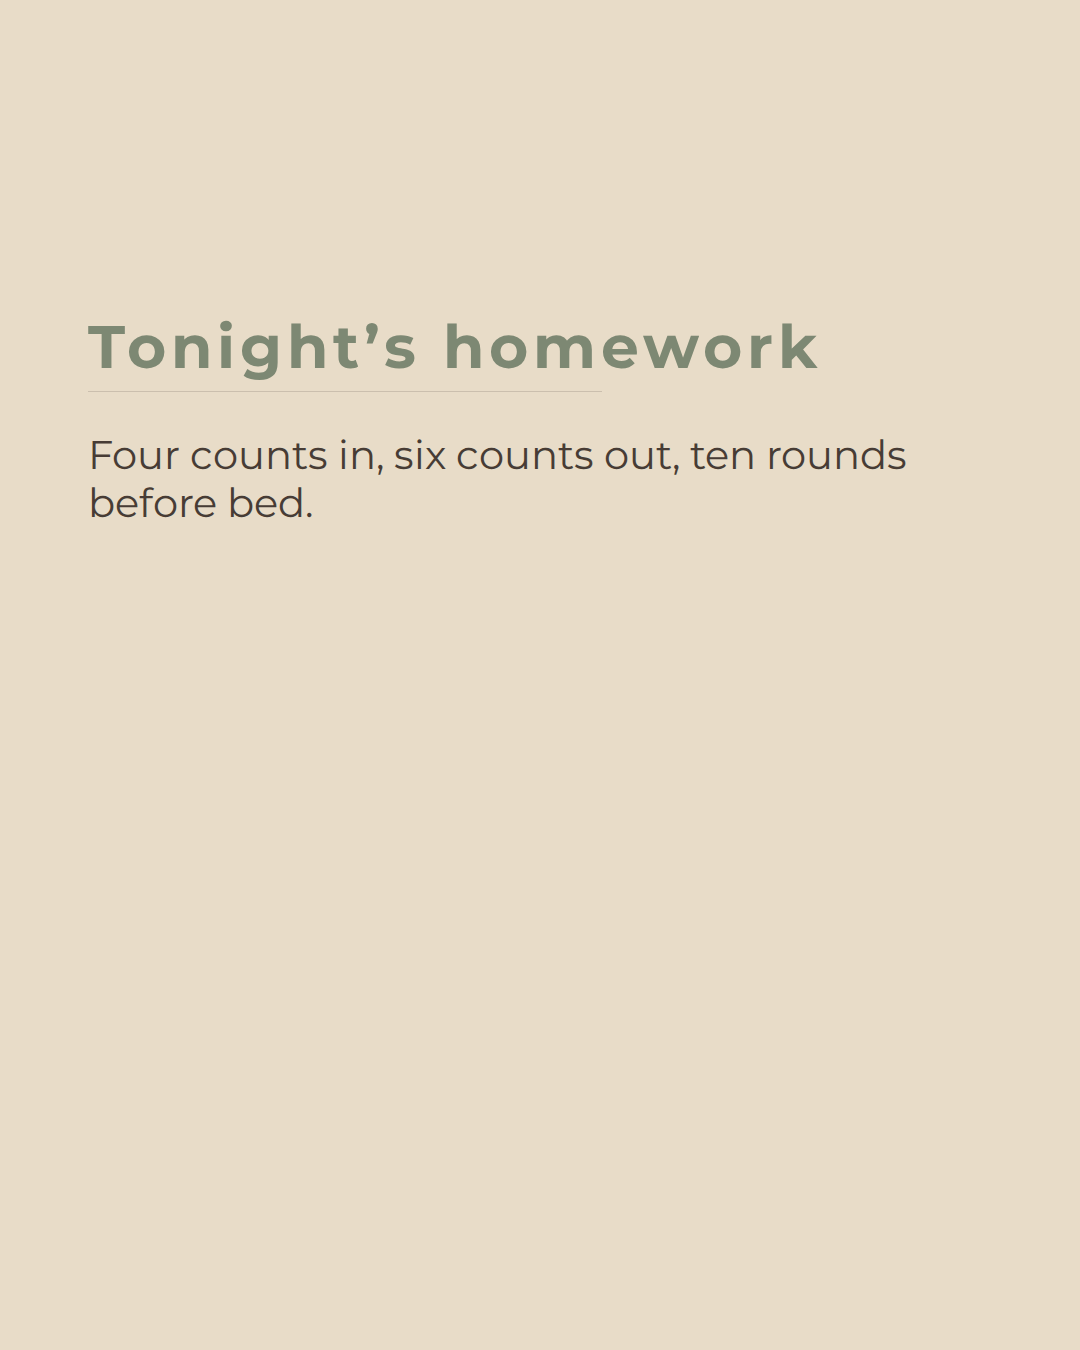
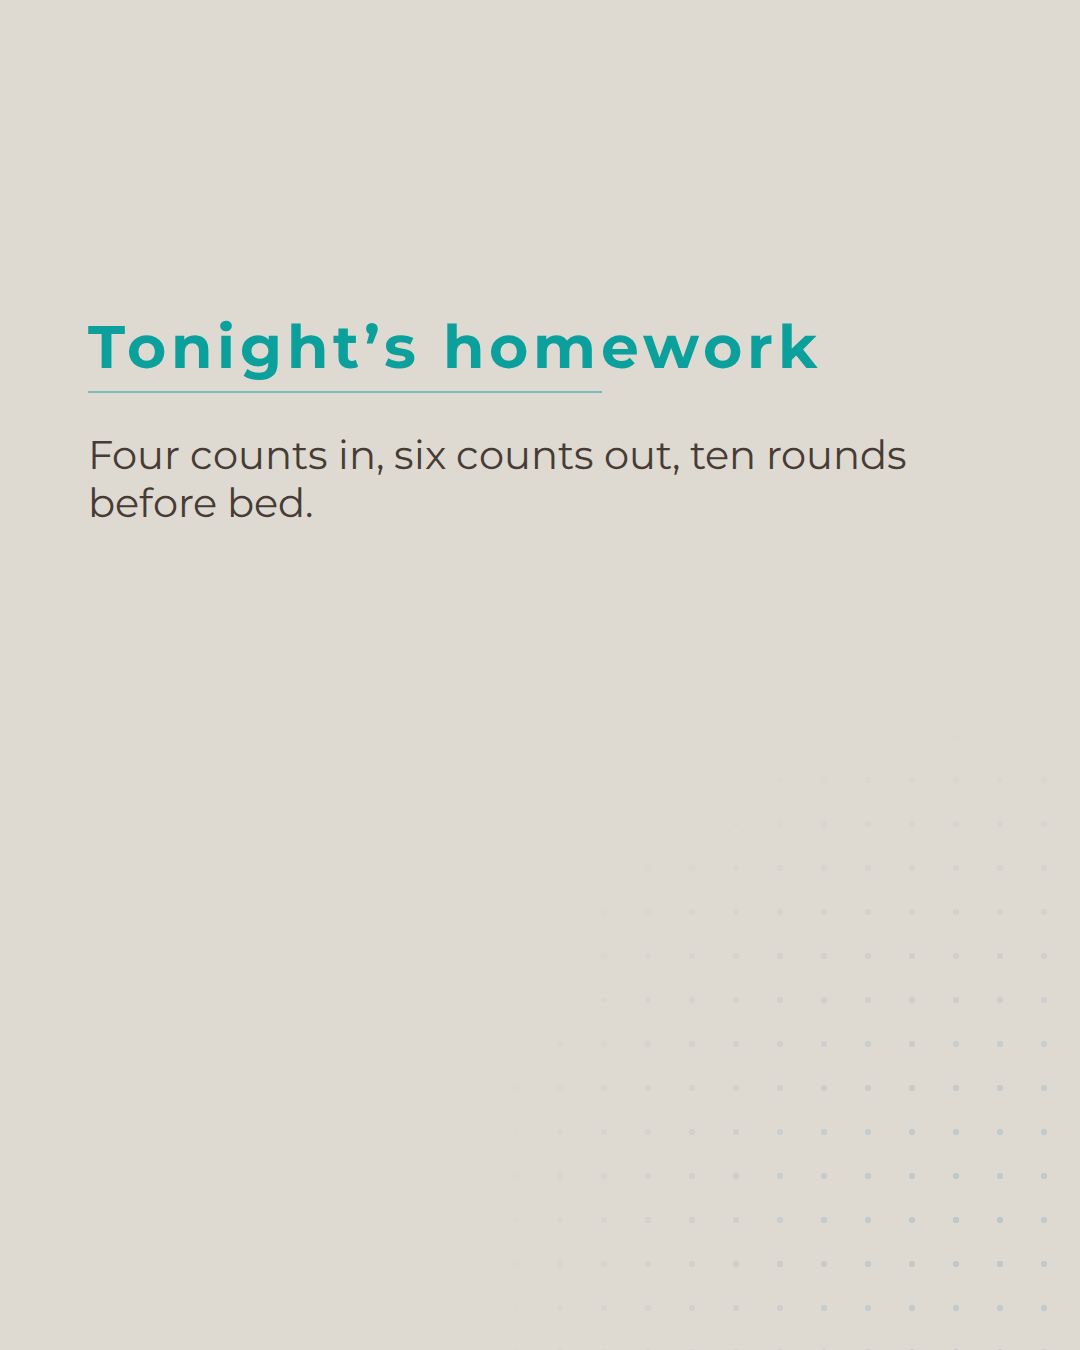
Refine palette to identity blue-grey system and rewrite 14 posts for brand direction
Palette: words #473C35 and ground #DEDAD2 carry text and the primary
surface; #9DB3BF (the logo's ground) becomes the identity tone driving
the bg-haze surface, soft badge washes, and ambient dot fields; teal
#0CA09D and sage #8DC1B7 are the stronger brand steps on light and dark
surfaces; the deep accent #006793 becomes bg-deep and small-caps accent
text. Backgrounds are now bg-ground, bg-haze, bg-espresso, bg-deep.

Content: all 14 carousels rewritten around The Whole Concept direction,
traditional yoga for today's life. Class copy now covers Slow Flow,
Power, and Advanced Vinyasa set to music, plus philosophy (yamas,
niyamas, pranayama), strength with awareness, and discipline with play.
CTA library, style guide, and README updated to match; PNGs regenerated.

Claude-Session: https://claude.ai/code/session_01R3bdWyshhafSSbfQQwW4uL

Changed region(s): [[0.0917, 0.2178, 0.7639, 0.28]]

diff --git a/templates/middle.html b/templates/middle.html
@@ -6,8 +6,13 @@
 <link href="../assets/fonts/montserrat.css" rel="stylesheet">
 <style>
   :root{
-    --apricot:#f9b75b; --mist:#c0cfe4; --oat:#e8dcc8;
-    --olive:#7d8873; --espresso:#473c35;
+    /* TWC refined palette */
+    --words:#473c35;     /* text */
+    --ground:#dedad2;    /* primary light background */
+    --identity:#9db3bf;  /* blue-grey identity tone (logo ground) */
+    --teal:#0ca09d;      /* stronger brand step, light surfaces */
+    --sage:#8dc1b7;      /* stronger brand step, dark surfaces */
+    --deep:#006793;      /* accent, dark step */
     --ml:88px;                 /* left and right margin */
     --asc:0.968; --em:1.219;   /* Montserrat metrics, do not edit */
   }
@@ -18,11 +23,20 @@
     font-family:'Montserrat',system-ui,sans-serif;
     -webkit-font-smoothing:antialiased;
   }
-  .slide.bg-oat     { background:var(--oat);      color:var(--espresso); --bg:var(--oat);      --accent:var(--olive);    }
-  .slide.bg-mist    { background:var(--mist);     color:var(--espresso); --bg:var(--mist);     --accent:var(--espresso); }
-  .slide.bg-apricot { background:var(--apricot);  color:var(--espresso); --bg:var(--apricot);  --accent:var(--espresso); }
-  .slide.bg-olive   { background:var(--olive);    color:var(--oat);      --bg:var(--olive);    --accent:var(--oat);      }
-  .slide.bg-espresso{ background:var(--espresso); color:var(--oat);      --bg:var(--espresso); --accent:var(--apricot);  }
+  .slide.bg-ground  { background:var(--ground);   color:var(--words);  --bg:var(--ground);   --accent:var(--teal); --wash:rgba(157,179,191,.30); --dot:rgba(157,179,191,.5);  }
+  .slide.bg-haze    { background:var(--identity); color:var(--words);  --bg:var(--identity); --accent:var(--words); --wash:rgba(222,218,210,.42); --dot:rgba(222,218,210,.5);  }
+  .slide.bg-espresso{ background:var(--words);    color:var(--ground); --bg:var(--words);    --accent:var(--sage); --wash:rgba(157,179,191,.22); --dot:rgba(157,179,191,.24); }
+  .slide.bg-deep    { background:var(--deep);     color:var(--ground); --bg:var(--deep);     --accent:var(--sage); --wash:rgba(157,179,191,.26); --dot:rgba(157,179,191,.28); }
+
+  /* Ambient identity: a soft dot field in the blue-grey identity tone,
+     fading in from the lower right, well away from the copy. */
+  .slide::before{
+    content:''; position:absolute; inset:0; pointer-events:none;
+    background-image:radial-gradient(var(--dot, rgba(157,179,191,.3)) 3px, transparent 3.5px);
+    background-size:44px 44px; background-position:10px 10px;
+    -webkit-mask-image:radial-gradient(680px 680px at 90% 90%, #000 0%, transparent 72%);
+    mask-image:radial-gradient(680px 680px at 90% 90%, #000 0%, transparent 72%);
+  }
 
   /* Baseline anchoring. .bl-top pins the first baseline, .bl-bot the last. */
   .bl-top,.bl-bot{
@@ -40,8 +54,8 @@
      visual gap to the rule that the smaller title had). */
   .title{ --fs:60; --lh:1.35; --bl:368; letter-spacing:.083em; color:var(--accent); }
 
-  .rule{ position:absolute; left:var(--ml); width:514px; height:1px;
-         background:currentColor; opacity:.18; }
+  .rule{ position:absolute; left:var(--ml); width:514px; height:2px;
+         background:var(--accent); opacity:.5; }
   .r-top{ top:391px; }   /* sits clear of the title's descenders */
 
   /* Content flows top-down in normal document order, so the image can
@@ -51,9 +65,13 @@
   .content{ position:absolute; left:var(--ml); right:var(--ml); top:431px;
             bottom:88px; display:flex; flex-direction:column;
             align-items:flex-start; gap:24px; }
+  /* The subheading sits in a soft badge on the translucent identity wash,
+     so the data line reads as a brand element rather than a second body. */
   .subheading{ --fs:40; margin:0; font-size:calc(var(--fs) * 1px);
                line-height:1.0833; font-weight:700; white-space:pre-wrap;
-               align-self:stretch; }
+               align-self:flex-start; max-width:100%; box-sizing:border-box;
+               background:var(--wash); border-radius:999px;
+               padding:16px 32px; }
   .body{ --fs:40; margin:0; font-size:calc(var(--fs) * 1px);
          line-height:1.2; font-weight:400; white-space:pre-wrap;
          align-self:stretch; }
@@ -69,7 +87,7 @@
 
 <!-- =======================================================================
      EDIT HERE.
-     Backgrounds:  bg-oat  bg-mist  bg-apricot  bg-olive  bg-espresso
+     Backgrounds:  bg-ground  bg-haze  bg-espresso  bg-deep
      Never indent a continuation line. Use &amp;amp; for an ampersand.
 
      ILLUSTRATIONS. The generator fills the img src from the CSV with a
@@ -106,13 +124,13 @@
   const subheading = document.querySelector('.subheading');
   const body = document.querySelector('.body');
   const art = document.querySelector('.illustration');
-  if (slide.className.indexOf(ph('BACKGROUND')) !== -1) slide.className = 'slide bg-oat';
-  if (title.textContent === ph('HEADING')) title.textContent = 'Use the correct entity name';
-  if (subheading.textContent === ph('SUBHEADING')) subheading.textContent = '';
-  if (body.textContent === ph('BODY')) body.textContent = 'The agreement should identify the exact company entering into the contract.';
+  if (slide.className.indexOf(ph('BACKGROUND')) !== -1) slide.className = 'slide bg-ground';
+  if (title.textContent === ph('HEADING')) title.textContent = 'Breath sets the pace';
+  if (subheading.textContent === ph('SUBHEADING')) subheading.textContent = 'Slow Flow · Power · Advanced';
+  if (body.textContent === ph('BODY')) body.textContent = 'Each movement rides an inhale or an exhale. The breath leads, the body follows.';
   if (art.getAttribute('src') === ph('ILLUSTRATION_SRC')){
-    art.src = '../assets/illustrations/document.svg';
-    art.alt = 'Contract document illustration';
+    art.src = '';
+    art.alt = '';
   }
   if (art.getAttribute('alt') === ph('ILLUSTRATION_ALT')) art.alt = '';
   /* Injected copy may carry "\n" as two characters; turn them into real

diff --git a/templates/cover.html b/templates/cover.html
@@ -6,8 +6,13 @@
 <link href="../assets/fonts/montserrat.css" rel="stylesheet">
 <style>
   :root{
-    --apricot:#f9b75b; --mist:#c0cfe4; --oat:#e8dcc8;
-    --olive:#7d8873; --espresso:#473c35;
+    /* TWC refined palette */
+    --words:#473c35;     /* text */
+    --ground:#dedad2;    /* primary light background */
+    --identity:#9db3bf;  /* blue-grey identity tone (logo ground) */
+    --teal:#0ca09d;      /* stronger brand step, light surfaces */
+    --sage:#8dc1b7;      /* stronger brand step, dark surfaces */
+    --deep:#006793;      /* accent, dark step */
     --ml:88px;                 /* left and right margin */
     --asc:0.968; --em:1.219;   /* Montserrat metrics, do not edit */
   }
@@ -17,13 +22,22 @@
     position:relative; width:1080px; height:1350px; overflow:hidden;
     font-family:'Montserrat',system-ui,sans-serif;
     -webkit-font-smoothing:antialiased;
-    background:var(--espresso); color:var(--oat);
+    background:var(--words); color:var(--ground);
   }
-  .slide.bg-espresso{ background:var(--espresso); color:var(--oat);      }
-  .slide.bg-olive   { background:var(--olive);    color:var(--oat);      }
-  .slide.bg-apricot { background:var(--apricot);  color:var(--espresso); }
-  .slide.bg-oat     { background:var(--oat);      color:var(--espresso); }
-  .slide.bg-mist    { background:var(--mist);     color:var(--espresso); }
+  .slide.bg-espresso{ background:var(--words);    color:var(--ground); --dot:rgba(157,179,191,.28); }
+  .slide.bg-deep    { background:var(--deep);     color:var(--ground); --dot:rgba(157,179,191,.34); }
+  .slide.bg-haze    { background:var(--identity); color:var(--words);  --dot:rgba(222,218,210,.55); }
+  .slide.bg-ground  { background:var(--ground);   color:var(--words);  --dot:rgba(157,179,191,.55); }
+
+  /* Ambient identity: a soft dot field in the blue-grey identity tone,
+     fading out from the upper right so it never sits under the title. */
+  .slide::before{
+    content:''; position:absolute; inset:0; pointer-events:none;
+    background-image:radial-gradient(var(--dot, rgba(157,179,191,.3)) 3px, transparent 3.5px);
+    background-size:44px 44px; background-position:10px 10px;
+    -webkit-mask-image:radial-gradient(760px 760px at 84% 16%, #000 0%, transparent 72%);
+    mask-image:radial-gradient(760px 760px at 84% 16%, #000 0%, transparent 72%);
+  }
 
   .bl-top,.bl-bot{
     position:absolute; left:var(--ml); right:var(--ml); margin:0;
@@ -34,10 +48,10 @@
   .bl-bot{ bottom:calc((1350 - (var(--bl) + ((var(--lh) - var(--em))/2 + 0.251) * var(--fs))) * 1px); }
 
   .wordmark{ --fs:48; --lh:1; --bl:166.2;
-             letter-spacing:.105em; text-transform:uppercase; opacity:.42; }
-  .slide.bg-oat .wordmark,
-  .slide.bg-mist .wordmark,
-  .slide.bg-apricot .wordmark{ opacity:1; color:var(--olive); }
+             letter-spacing:.105em; text-transform:uppercase;
+             color:var(--sage); opacity:.85; }
+  .slide.bg-ground .wordmark{ opacity:1; color:var(--teal); }
+  .slide.bg-haze .wordmark  { opacity:1; color:var(--deep); }
 
   /* pre-wrap keeps explicit returns AND wraps long titles naturally.
      The script below holds 120px whenever the title fits on up to
@@ -50,7 +64,7 @@
 <!-- =======================================================================
      EDIT HERE. Change the bg- class, change the headline text.
      Line breaks are literal: press return where you want the line to break.
-     Backgrounds: bg-espresso  bg-olive  bg-apricot  bg-oat  bg-mist
+     Backgrounds: bg-espresso  bg-deep  bg-haze  bg-ground
      ======================================================================= -->
 
 <div class="slide {{BACKGROUND}}" data-template="cover">
@@ -67,7 +81,7 @@
   const slide = document.querySelector('.slide');
   const title = document.querySelector('.display');
   if (slide.className.indexOf(ph('BACKGROUND')) !== -1) slide.className = 'slide bg-espresso';
-  if (title.textContent === ph('TITLE')) title.textContent = 'Five contract mistakes\nfounders should avoid';
+  if (title.textContent === ph('TITLE')) title.textContent = 'The whole concept\nof yoga';
   /* Injected copy may carry "\n" as two characters; turn them into real
      newlines so multiline titles keep working under white-space:pre. */
   if (title.textContent.indexOf('\\n') !== -1){

diff --git a/templates/closing.html b/templates/closing.html
@@ -6,8 +6,13 @@
 <link href="../assets/fonts/montserrat.css" rel="stylesheet">
 <style>
   :root{
-    --apricot:#f9b75b; --mist:#c0cfe4; --oat:#e8dcc8;
-    --olive:#7d8873; --espresso:#473c35;
+    /* TWC refined palette */
+    --words:#473c35;     /* text */
+    --ground:#dedad2;    /* primary light background */
+    --identity:#9db3bf;  /* blue-grey identity tone (logo ground) */
+    --teal:#0ca09d;      /* stronger brand step, light surfaces */
+    --sage:#8dc1b7;      /* stronger brand step, dark surfaces */
+    --deep:#006793;      /* accent, dark step */
     --ml:88px;                 /* left and right margin */
     --asc:0.968; --em:1.219;   /* Montserrat metrics, do not edit */
   }
@@ -18,11 +23,20 @@
     font-family:'Montserrat',system-ui,sans-serif;
     -webkit-font-smoothing:antialiased;
   }
-  .slide.bg-oat     { background:var(--oat);      color:var(--espresso); --bg:var(--oat);      --accent:var(--olive);    }
-  .slide.bg-mist    { background:var(--mist);     color:var(--espresso); --bg:var(--mist);     --accent:var(--espresso); }
-  .slide.bg-apricot { background:var(--apricot);  color:var(--espresso); --bg:var(--apricot);  --accent:var(--espresso); }
-  .slide.bg-olive   { background:var(--olive);    color:var(--oat);      --bg:var(--olive);    --accent:var(--oat);      }
-  .slide.bg-espresso{ background:var(--espresso); color:var(--oat);      --bg:var(--espresso); --accent:var(--apricot);  }
+  .slide.bg-ground  { background:var(--ground);   color:var(--words);  --bg:var(--ground);   --accent:var(--deep); --dot:rgba(157,179,191,.5);  }
+  .slide.bg-haze    { background:var(--identity); color:var(--words);  --bg:var(--identity); --accent:var(--deep); --dot:rgba(222,218,210,.5);  }
+  .slide.bg-espresso{ background:var(--words);    color:var(--ground); --bg:var(--words);    --accent:var(--sage); --dot:rgba(157,179,191,.24); }
+  .slide.bg-deep    { background:var(--deep);     color:var(--ground); --bg:var(--deep);     --accent:var(--sage); --dot:rgba(157,179,191,.28); }
+
+  /* Ambient identity: a soft dot field in the blue-grey identity tone,
+     fading in from the lower right, clear of headline and wordmark. */
+  .slide::before{
+    content:''; position:absolute; inset:0; pointer-events:none;
+    background-image:radial-gradient(var(--dot, rgba(157,179,191,.3)) 3px, transparent 3.5px);
+    background-size:44px 44px; background-position:10px 10px;
+    -webkit-mask-image:radial-gradient(640px 640px at 88% 74%, #000 0%, transparent 72%);
+    mask-image:radial-gradient(640px 640px at 88% 74%, #000 0%, transparent 72%);
+  }
 
   /* Baseline anchoring. .bl-top pins the first baseline, .bl-bot the last. */
   .bl-top,.bl-bot{
@@ -46,7 +60,7 @@
 
 <!-- =======================================================================
      EDIT HERE.
-     Backgrounds:  bg-oat  bg-mist  bg-apricot  bg-olive  bg-espresso
+     Backgrounds:  bg-ground  bg-haze  bg-espresso  bg-deep
      Never indent a continuation line.
      ======================================================================= -->
 
@@ -69,10 +83,10 @@
   const slide = document.querySelector('.slide');
   const headline = document.querySelector('.headline');
   const subheading = document.querySelector('.subheading');
-  if (slide.className.indexOf(ph('BACKGROUND')) !== -1) slide.className = 'slide bg-oat';
-  if (slide.dataset.ctaKey === ph('CTA_KEY')) slide.dataset.ctaKey = 'ip-empire';
-  if (headline.textContent === ph('CTA_HEADING')) headline.textContent = 'Ready to build\nyour IP empire?';
-  if (subheading.textContent === ph('CTA_SUBHEADING')) subheading.textContent = 'Start building today';
+  if (slide.className.indexOf(ph('BACKGROUND')) !== -1) slide.className = 'slide bg-ground';
+  if (slide.dataset.ctaKey === ph('CTA_KEY')) slide.dataset.ctaKey = 'begin';
+  if (headline.textContent === ph('CTA_HEADING')) headline.textContent = 'Begin your\npractice';
+  if (subheading.textContent === ph('CTA_SUBHEADING')) subheading.textContent = 'Book your first class';
   /* Injected copy may carry "\n" as two characters; turn them into real
      newlines so multiline headings keep working under white-space:pre. */
   for (const el of [headline, subheading]){

diff --git a/scripts/generate.js b/scripts/generate.js
@@ -28,7 +28,7 @@ const OUTPUT_DIR = path.join(ROOT, 'public', 'social');
 const WIDTH = 1080;
 const HEIGHT = 1350;
 
-const BACKGROUNDS = ['bg-oat', 'bg-mist', 'bg-apricot', 'bg-olive', 'bg-espresso'];
+const BACKGROUNDS = ['bg-ground', 'bg-haze', 'bg-espresso', 'bg-deep'];
 
 const PREVIEW = process.argv.includes('--preview');
 const POST_FILTER = (() => {

diff --git a/README.md b/README.md
@@ -9,13 +9,18 @@ screenshotted; nothing is converted to SVG along the way.
 
 ## Brand palette (TWC · The Whole Concept)
 
-| Name       | Hex       | Role                                        |
-| ---------- | --------- | ------------------------------------------- |
-| Apricot    | `#F9B75B` | accent; titles on espresso, bold covers     |
-| Mist       | `#C0CFE4` | secondary light background                  |
-| Oat        | `#E8DCC8` | primary light background                    |
-| Olive grey | `#7D8873` | midtone background, muted wordmark          |
-| Espresso   | `#473C35` | dark background, text on light backgrounds  |
+| Name     | Hex       | Role                                                                  |
+| -------- | --------- | --------------------------------------------------------------------- |
+| Words    | `#473C35` | text; the dark background (`bg-espresso`)                             |
+| Ground   | `#DEDAD2` | primary light background (`bg-ground`)                                |
+| Identity | `#9DB3BF` | blue-grey identity tone (the TWC logo's ground): `bg-haze`, soft badge washes, ambient dot fields |
+| Teal     | `#0CA09D` | stronger brand step on light surfaces (titles, wordmark, rules)       |
+| Sage     | `#8DC1B7` | stronger brand step on dark surfaces (titles, wordmark, rules)        |
+| Accent   | `#0F98B9` / `#006793` | accent pair; the deep step is `bg-deep` and small-caps accent text |
+
+The identity tone is deliberately ambient: it appears as translucent washes
+behind subheading badges and as fading dot fields on every slide, so the
+carousels share their ground with the logo.
 
 ## Structure
 
@@ -65,7 +70,7 @@ cta_key,closing_background,middle_subheading
 
 - `publish_at` uses `YYYY-MM-DD HH:MM`; its month decides the output folder.
 - Write `\n` inside a field for an explicit line break.
-- Backgrounds: `bg-oat`, `bg-mist`, `bg-apricot`, `bg-olive`, `bg-espresso`.
+- Backgrounds: `bg-ground`, `bg-haze`, `bg-espresso`, `bg-deep`.
 - `slide_number` orders the middle slides and must be unique per post. It is
   internal only — slide numbers are never displayed on a slide.
 - `middle_subheading` is an optional bold line (e.g. a person's name) placed

diff --git a/content/style-guide.md b/content/style-guide.md
@@ -3,6 +3,18 @@
 Distilled from the reviewed edits to the four Gaga trademark carousels
 (August 2026). These rules govern all future carousel drafting.
 
+## Brand voice
+
+- The Whole Concept teaches traditional yoga for today's life. The copy
+  honors the roots without diluting them, and never apologizes for depth.
+- The emphasis is on the **concept**, the idea behind the teaching, not
+  merely on the word "whole."
+- Balance in every carousel: tradition + creativity, depth + fun,
+  discipline + play, strength + awareness.
+- The classes are Slow Flow Vinyasa, Power Vinyasa, and Advanced Vinyasa
+  set to music. Never present the studio as fitness-only, watered-down,
+  or solemn.
+
 ## Punctuation
 
 - **Never use em dashes (—).** Replace with a comma, a period, or two
